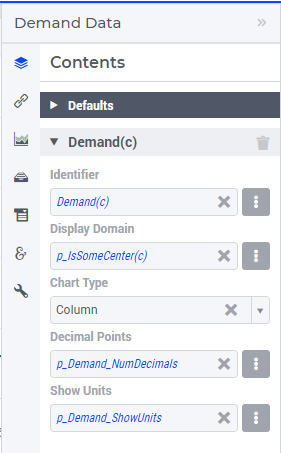
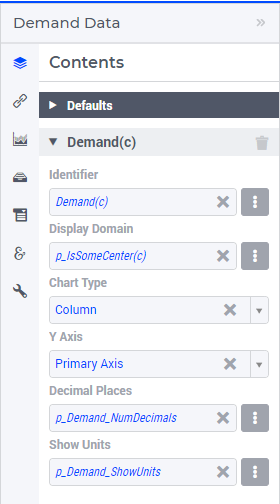
changed some snapshots and adjusted explanation in combination-chart-widget.rst

diff --git a/webui/combination-chart-widget.rst b/webui/combination-chart-widget.rst
@@ -9,7 +9,7 @@ More specifically, this widget has been built upon the combination chart present
 The formal widget type used for adding it to a WebUI page is called "combinationchart". This type is only available in the Add Widget dialog on a page with a grid layout.
 
 .. note:: 
-   The Combination Chart widget is supported only on the Grid pages and it is incompatible with the Classic pages. When a combination chart ends up on a page with classic layout (for instance, by copy and paste), then the widget becomes no longer usable and shows an incompatibility message. In order to use a combination chart, the page must be applied a grid layout.  
+   The Combination Chart widget is supported only on the Grid pages and it is incompatible with the Classic pages. When a combination chart ends up on a page with classic layout (for instance, by copy and paste), then the widget becomes no longer usable and shows an incompatibility message. In order to use a combination chart, the page must first have a grid layout applied on it.  
 
 Converting other widget types to Combination Chart Widget
 ---------------------------------------------------------
@@ -27,10 +27,10 @@ Since the Combination Chart widget offers more flexibility and options than the 
 
 After these steps, your existing widget will have been replaced by a Combination Chart widget, complete with all the options from the existing widget that could be converted. Currently, a non-binary display domain cannot be converted yet and neither can be aggregators (because these do not exist in the Combination Chart). The Combination Chart widget is present at the original position of the existing widget, with a numerical suffix in its name, because two widgets with the same name are not possible. 
 
-As not all options have an equivalent in the Combination Chart, we have made sure that you have not lost your old widget. It is still present, with its original name, in the 'Unassigned widgets' area of your WebUI page. If you need to compare both, you can simply drag it onto an active area on your page to do so. If you are sure that the new widget is fully OK, you can delete the original one.
+As not all options have an equivalent in the Combination Chart, we have made sure that you have not lost your old widget. It is still present, with its original name, in the 'Unassigned widgets' area of your WebUI page. If you need to compare both, you can simply drag it onto an active area on your grid page to do so. If you are sure that the new widget is fully functional, you can delete the original one.
 
 .. note:: 
-   It is only possible to convert widgets of type Bar, Line and BarLine chart, so only these widgets offer the option 'Convert Type' on the 'Change Type' tab. Also, the widgets must reside on a page with a grid layout in order to allow for conversion to a combination chart.
+   It is only possible to convert widgets of type Bar, Line and BarLine chart, so only these widgets offer the option 'Convert Type' on the 'Change Type' tab. Also, the widgets must reside on a page with a grid layout in order to allow for conversion to a combination chart (otherwise, on a classic page, the 'Convert Type' option is greyed out and not applicable).
 
 The Combination Chart
 ---------------------
@@ -77,7 +77,15 @@ Firstly, a data identifier to be rendered in the combination chart has to be spe
 
 | 
 
-For each identifier added to the Contents tab the following settings can be specified: the identifier name (as declared in the AIMMS model), its display domain, the chart type to be applied to this identifier, the number of decimals, and the indicator for showing/hiding the units of measurement. 
+For each identifier added to the Contents tab the following settings can be specified: 
+
+* the identifier name (as declared in the AIMMS model), 
+* its display domain, 
+* the chart type to be applied to this identifier, 
+* the Y-axis (Primary or Secondary) to be applied to it,
+* the number of decimal places to be shown, 
+* and the indicator for showing or hiding its units of measurement. 
+
 These values may be literal or given through identifiers present in the AIMMS model, as shown below:
 
 .. image:: images/CombiChart-Identifier-Settings-1.png
@@ -101,16 +109,6 @@ For instance, we can slice our center index c to the fixed element 'Amsterdam' i
 Clearly, each slicing specification will result in a different data view in the chart showing only the data points corresponding to those tuples (set element combinations) which are still valid according to current slicing. 
 For a more detailed explanation, please refer to `Widget Options > Indentifier Settings > Slicing <widget-options.html#id6>`__.
 
-For each identifier in Contents, the chart type to be applied to it can be specified in the "Chart Type" field of the identifier settings by choosing one type from the drop-down list:
-
-.. image:: images/CombiChart-Select-ChartType-1.png
-   :align: center  
-
-| 
-
-.. note:: 
-   Many examples in this section use the 'Column' or the 'Line' chart type for illustration. However, the explanatory information is also valid for the other chart types, unless specifically mentioned otherwise.
-
 Moving on, in the "Display Domain" field of the identifier settings a constant or a model identifier may be specified as well. The combination chart will then only display data points for which the display condition is evaluated as true.
 In our example, if the indexed (binary) parameter p_IsSomeCenter(c) is specified as the display domain for Demand(c), then the combination chart only displays the demand values of the distribution centers c for which the parameter p_IsSomeCenter(c) is
 not 0. We can visualize this effect, for instance, by showing the values of p_IsSomeCenter(c) in a selection widget of type "multiselect" next to the combination chart which shows Demand(c) using 'Column' or 'Line' type:
@@ -128,7 +126,20 @@ not 0. We can visualize this effect, for instance, by showing the values of p_Is
 .. note:: 
    Please note that entering the constant value 1 as the display domain will result in a dense view of your data in the chart.
 
-Next, the number of decimals and the indicator for showing/hiding the units of measurement may be specified in the corresponding fields of the identifier settings, as already shown above. 
+For each identifier in the Contents, the chart type to be applied to it can be specified in the "Chart Type" field of the identifier settings by choosing one type from the drop-down list:
+
+.. image:: images/CombiChart-Select-ChartType-1.png
+   :align: center  
+
+| 
+
+.. note:: 
+   Many examples in this section use the 'Column' or the 'Line' chart type for illustration. However, the explanatory information is also valid for the other chart types, unless explicitly mentioned otherwise.
+
+Next, in the "Y Axis" field under the identifier options one can select from the drop down list either the Primary Axis or the Secondary Axis as the Y axis on which the identifier values are rendered 
+(for more info about the primary Y axis and the secondary Y axis please see the `Chart Settings <combination-chart-widget.html#chart-settings>`__ section below).
+
+Finally, the number of decimal places and the indicator for showing/hiding the units of measurement may be specified in the corresponding fields of the identifier settings, as already shown above. 
 Please note that either option needs to be resolved to a scalar value. So, in particular, it is not possible to specify an indexed identifier like p_NumDecimals(c) for the number of decimals. 
 This means that you cannot show a different number of decimals for different data values which belong to the same identifier.
 These "per identifier" options are then reflected in the chart view provided that the data labels are toggled on (see more info about toggling labels in the `Chart Settings <combination-chart-widget.html#chart-settings>`__ section below):
@@ -138,16 +149,15 @@ These "per identifier" options are then reflected in the chart view provided tha
 
 |
 
-Note that, if the number of decimals and/or the indicator for showing/hiding the units of measurement are not specified for a certain identifier, then the values from the Defaults section will be inherited and applied to that identifier:
+Note that, if the chart type, the Y axis, the number of decimal places and/or the indicator for showing/hiding the units of measurement are not specified for a certain identifier, then the corresponding values from the Defaults section 
+of the Contents tab will be inherited and applied to that identifier:
 
-.. image:: images/ColumnChart-NumDec-ShowUnits-2.png
+.. image:: images/CombiChart-ContentsDefaults-View-1.png
    :align: center  
 
 |
 
-More specifically, in the example above the number of decimals is not explicitly set for the identifier Demand(c) and therefore, this option value '2' is automatically inherited from the number of decimals specified in the Defaults section of the Contents tab.
-Similarly, the value '1' (or "on") of the the indicator for showing/hiding the units of measurement for the identifier Demand(c) is not specified explicitly in the corresponding identifier field, but it is inherited from the indicator value from the Defaults.
-Either option can be specified per identifier or inherited from Defaults independently from the other option. 
+Each of these options can be specified explicitly per identifier or can inherited from the Defaults section independently from the other options. 
 
 Pivoting
 --------
@@ -173,18 +183,22 @@ Similarly, one may move some data indexes in the Stacked section of the Pivot ta
 
 |
 
-Typically, the identifiers that are put in a single chart will share the same (or at least have a very similar) index domain, but this is not mandatory. In case some index (that is present on the Pivot tab) is not present in the index domain of a certain contents identifier, the corresponding *missing index* is denoted with a dash ('-') character.
+Typically, the identifiers that are put in a single chart will share the same (or at least have a very similar) index domain, but this is not mandatory. 
+In case some index (that is present on the Pivot tab) is not present in the index domain of a certain contents identifier, the corresponding *missing index* is denoted with a dash ('-') character.
 
-As already mentioned, the combination chart widget allows you to specify a chart type **per identifier**. In case you want to use several different chart types, the dimensions should be pivoted in such a way that, for each sequence of data points in the chart, the corresponding identifier can be uniquely determined. This means that, in case you want to mix different chart types, the <IDENTIFIER-SET> index should not be put in the Header or Totals section. 
+As already mentioned, the combination chart widget allows you to specify a chart type **per identifier**. In case you want to use several different chart types, the dimensions should be pivoted in such a way that, 
+for each sequence of data points in the chart, the corresponding identifier can be uniquely determined. This means that, in case you want to mix different chart types, the <IDENTIFIER-SET> index should **not** be pivoted in the X-Axis or in the Totals section. 
 
-When the <IDENTIFIER-SET> index is put in the Header section, the different data points in a single data series, may correspond to different chart types. When the <IDENTIFIER-SET> index is put in the Header section, each single data point is a total over multiple identifiers, each with their own chart type. In both of these cases, the chart type of the first identifier will be used.
+When the <IDENTIFIER-SET> index is put in the X-Axis section, the different data points in a single data series may correspond to different chart types. 
+When the <IDENTIFIER-SET> index is put in the Totals section, each single data point is a total over multiple identifiers, each with their own chart type. 
+In both cases, the chart type of the first identifier will be used.
 
 Chart Settings
 --------------
 
 In the Chart Settings tab of the widget options editor there are several groups of options which may be specified: 
 
-.. image:: images/ColumnChart-ChartSettings-0.png
+.. image:: images/CombiChart-ChartSettings-0.PNG
     :align: center
 
 Next, we discuss each of these option groups in turn.
@@ -192,9 +206,9 @@ Next, we discuss each of these option groups in turn.
 X-Axis
 ++++++
 
-In the X-Axis group it is possible to specify the Label for the X-axis and the so-called "Maximum Number of Categories in the Viewport":
+In the X-Axis group it is possible to specify the Label for the X-axis, the so-called "Maximum Number of Categories in Viewport" and the so-called "Step Size":
 
-.. image:: images/ColumnChart-XAxis-Options-1.png
+.. image:: images/CombiChart-XAxis-Options-1.png
     :align: center
 
 In order to illustrate the effect of these settings, assume for the time being that the Pivoting is adjusted as follows: 
@@ -202,12 +216,13 @@ In order to illustrate the effect of these settings, assume for the time being t
 .. image:: images/ColumnChart-XAxis-Pivot-0.png
     :align: center
 
-The Label value add the corresponding text as label of the X-axis. 
+The Label value adds the corresponding text as label of the X-axis. 
 The value of the "Maximum Number of Categories in the Viewport" specifies the maximum number of data tuples from the X-axis in the Pivot tab which are shown at a time in the chart.
 If there are more data points than this maximum number in viewport, then a horizontal scroll bar appears along the X-axis such that the user can scroll through all points.
-These are illustrated in the following picture:
+The value of the "Step Size" specifies for which data points are the labels shown on the X axis. For example, if this option is 2, then the label is shown for the first data point and then for every second data point in the sequence.
+These effects are illustrated in the following picture:
 
-.. image:: images/ColumnChart-XAxis-1.png
+.. image:: images/CombiChart-XAxis-View-1.PNG
     :align: center
 
 | 
@@ -215,13 +230,19 @@ These are illustrated in the following picture:
 Y-Axis
 ++++++
 
-In the Y-Axis group it is possible to specify the Label for the Y-axis, a minimum and a maximum bound for the Y-axis, and a step size which determines the distance between the horizontal grid lines drawn in the chart 
-(these all may be constant literals or given by model identifiers):
+In the Y-Axis group it is possible to specify values for the following options:
 
-.. image:: images/ColumnChart-YAxis-1.png
+* the Label for the Y-axis itself, 
+* a minimum bound for the Y-axis,
+* a maximum bound for the Y-axis, 
+* and a step size which determines the distance between the horizontal grid lines drawn in the chart. 
+
+These all may be constant literals or given by model identifiers:
+
+.. image:: images/CombiChart-YAxis-View-1.png
     :align: center
 
-Note that the situation shown here corresponds again to the first instance of pivoting the indexes as discussed in the Pivoting section above.
+|
 
 
 Y-Axis (Secondary)
@@ -255,7 +276,7 @@ Legend
 
 In the Legend group it is possible to specify an indicator whether to show or to hide the legend provided by the chart:
 
-.. image:: images/ColumnChart-Legend-Option-1.png
+.. image:: images/CombiChart-Legend-Option-1.png
     :align: center
 
 When the Legend is turned on, then it is displayed at the bottom of the chart, as illustrated below:
@@ -263,9 +284,9 @@ When the Legend is turned on, then it is displayed at the bottom of the chart, a
 .. image:: images/ColumnChart-Legend-1.png
     :align: center
 
-When the Legend option is not specified by a model identifier, but by the literal (binary) indicator, then the option of toggling the Legend on/off is also available through a dedicated icon on the widget header:
+When the Legend option is not specified by a model identifier, but by the literal (binary) indicator instead, then the option of toggling the Legend on/off is also available through a dedicated icon on the widget header:
 
-.. image:: images/ColumnChart-Legend-2.png
+.. image:: images/CombiChart-Legend-2.png
     :align: center
 
 Labels
@@ -273,7 +294,7 @@ Labels
 
 In the Labels group it is possible to specify an indicator whether to show or to hide the text labels of the columns in the chart:
 
-.. image:: images/ColumnChart-Labels-1.png
+.. image:: images/CombiChart-Labels-1.png
     :align: center
 
 |
@@ -293,7 +314,7 @@ Consider a column chart with a single identifier UnitCost(f,c) in which the <IDE
 
 If you would specify the c index as the *Color Index*
 
-.. image:: images/ColumnChart-ColorIndex-Option.png
+.. image:: images/CombiChart-ColorIndex-1.png
     :align: center
 
 |
